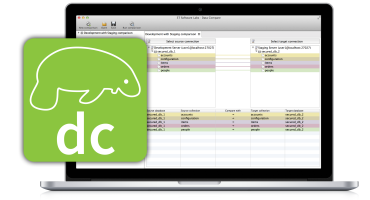
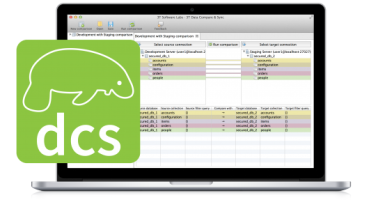
Updated 3T Software Labs tools. 3T Data Manager is now 3T MongoChef.

Changed region(s): [[0.0297, 0.0, 0.9811, 0.96]]

diff --git a/_tools/3t-data-compare-and-sync.md b/_tools/3t-data-compare-and-sync.md
@@ -5,7 +5,7 @@ language: Java
 license: Commercial
 maintained: Actively Maintained
 support: unsupported
-officialUrl: http://3tsoftwarelabs.com/products/data-compare/
+officialUrl: http://3t.io/data-compare/
 environments:
 - apple
 - linux
@@ -13,15 +13,15 @@ environments:
 
 # Info about the tool on mongodb-tools.com
 purpose: GUI
-description: A multi-platform data comparison and synchronization GUI tool for MongoDB
+description: 3T Data Compare & Sync is a multi-platform data comparison and synchronization GUI tool for MongoDB.
 slug: 3t-data-compare-and-sync
 img: 3t-data-compare-and-sync.png
 permalink: /tool/3t-data-compare-and-sync/
 layout: tool
 
 # Release Info
-latest_release_date: 2014-06-01
-latest_release_version: 1.5.0
+latest_release_date: 2014-09-02
+latest_release_version: 1.7.0
 
 # Github Info
 github_repo: 

diff --git a/_tools/3t-schema-explorer.md b/_tools/3t-schema-explorer.md
@@ -5,7 +5,7 @@ language: Java
 license: Commercial
 maintained: Actively Maintained
 support: unsupported
-officialUrl: http://3tsoftwarelabs.com/products/schema-explorer/
+officialUrl: http://3t.io/schema-explorer/
 environments:
 - apple
 - linux
@@ -13,15 +13,15 @@ environments:
 
 # Info about the tool on mongodb-tools.com
 purpose: GUI
-description: A multi-platform schema analysis GUI tool for MongoDB
+description: 3T Schema Explorer is a multi-platform schema analysis GUI tool for MongoDB.
 slug: 3t-schema-explorer
 img: 3t-schema-explorer.png
 permalink: /tool/3t-schema-explorer/
 layout: tool
 
 # Release Info
-latest_release_date: 2014-06-01
-latest_release_version: 1.4.7
+latest_release_date: 2014-09-04
+latest_release_version: 1.6.0
 
 # Github Info
 github_repo: 

diff --git a/_tools/3t-mongochef.md b/_tools/3t-mongochef.md
@@ -1,0 +1,29 @@
+---
+# Info about the tool
+name: 3T MongoChef
+language: Java
+license: Commercial
+maintained: Actively Maintained
+support: unsupported
+officialUrl: http://3t.io/mongochef
+environments:
+- apple
+- linux
+- windows
+
+# Info about the tool on mongodb-tools.com
+purpose: GUI
+description: 3T MongoChef is a multi-platform in-place data browser and editor GUI for MongoDB. 3T MongoChef is free for personal and non-commercial use.
+slug: 3t-mongochef
+img: 3t-mongochef.png
+permalink: /tool/3t-mongochef/
+layout: tool
+
+# Release Info
+latest_release_date: 2014-09-09
+latest_release_version: 1.7.3
+
+# Github Info
+github_repo: 
+github_user: 
+---
